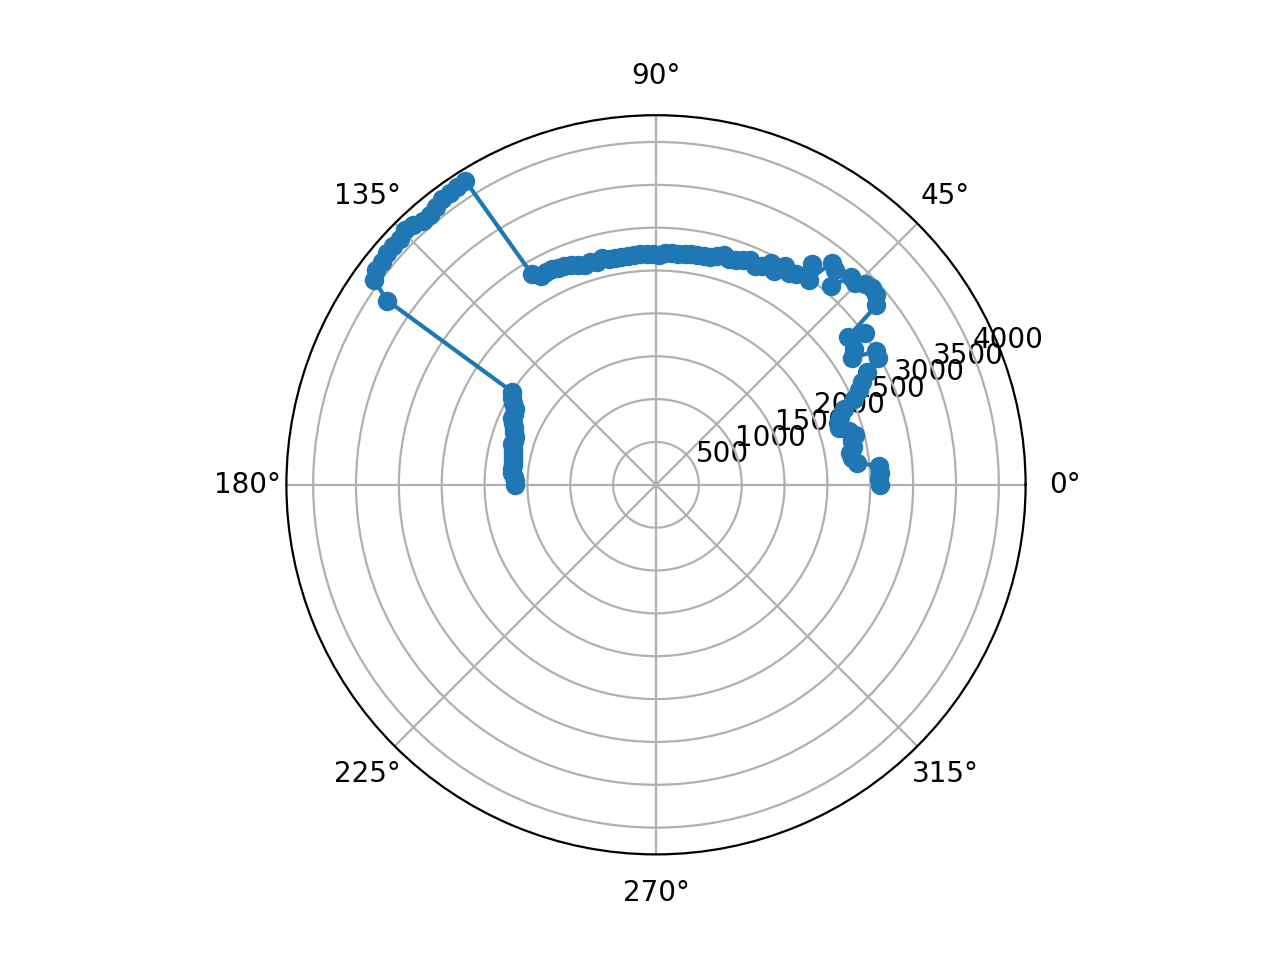
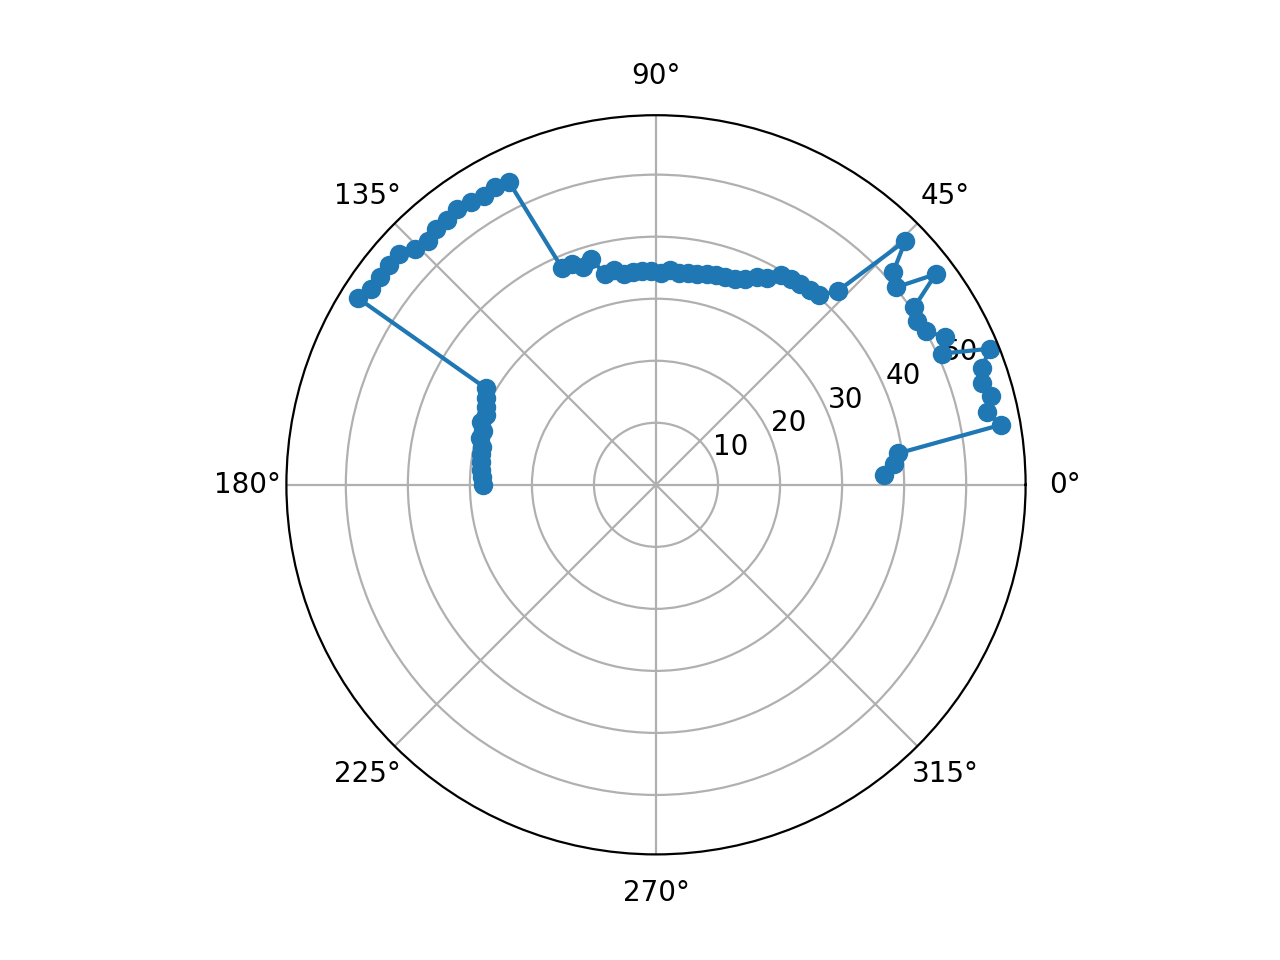
Added coordinate transformation from polar to cartesian, changed electronic values for 9.0 v battery

diff --git a/main.py b/main.py
@@ -1,6 +1,7 @@
 import time
 import sys
 import pigpio
+import math  
 
 import sonar_trigger_echo
 import motors_ctr
@@ -126,21 +127,21 @@ try:
 
         # START MEASURING DISTANCES
         # START WITH A 90° rotation
-        motors.CLOCK_P(1.60) # Δt ~= 1.45 sec =~ 90° 
+        motors.CLOCK_P(1.30) # Δt ~= 1.45 sec =~ 90° | ! 1.30 Δt with 9.0 V battery and 170 Duty Cycle
         time.sleep(1) # wait for one second
 
         # array for the distances
         dist = []
 
         # START TAKING DISTANCE MEASURE MENTS AND APPEND THEM IN THE dist ARRAY
-        n = 125 # 45 steps of 2° rotation for 90° rotation | 116 steps ~180° rotation
+        n = 73 # 45 steps of 2° rotation for 90° rotation | 116 steps ~180° rotation | ! 73 STEPS FOR 9.0 V battery and 170 Duty Cycle
         while n > 0:
 
             # GET A READING AND ADD IT TO THE DISTANCE ARRAY
-            r = sonar.read()
+            r = sonar.read() # read duration
             r = (r/2) / 29.1 # normalize duration to cm
             print("D: {}".format(r))
-            dist.append(r)
+            dist.append(r) # add to distances array
 
             # TURN ROVER IN STEPS
             motors.CLOCK(0.05) # Δt = 5ms =~ 2°
@@ -155,20 +156,33 @@ try:
         plt.grid(True)
 
         # Generating the X and Y axis data point
-        theta = np.deg2rad(np.arange(180, 0, -1.44)) # magic number necesary for 116 steps
+        # Generating the θ range 180° - 0° 
+        theta = np.deg2rad(np.arange(180, 0, -2.46575342466)) # magic number necesary for 116 steps | ! 73 steps
 
         # plotting the polar coordinates on the system
         plt.polar(theta, dist, marker='o')
-
-        # Setting the axis limit
-        #ax.set_ylim(0,10)
-
         plt.savefig("map.png")
 
-        print(dist)
+        # transformation from polar to cartesian coordinates
+        fig = plt.figure(dpi=200)
+        ax = fig.add_subplot()
+        plt.grid(True)
 
+        # where the coordinates will be stored
+        x1 = []
+        y1 = []
 
+        # for the entire range transform from [r, θ] to [x, y]
+        for i in range(0, 73):
+            x = dist[i]*math.cos(theta[i]) # x = r1 cos(θ1)
+            x1.append(x)
 
+            y = dist[i]*math.sin(theta[i]) # y = r1 sin(θ1) 
+            y1.append(y)
+
+        # save plot 
+        plt.plot(x1, y1, marker='o')
+        plt.savefig("map2.png")
 
 
 except KeyboardInterrupt:
